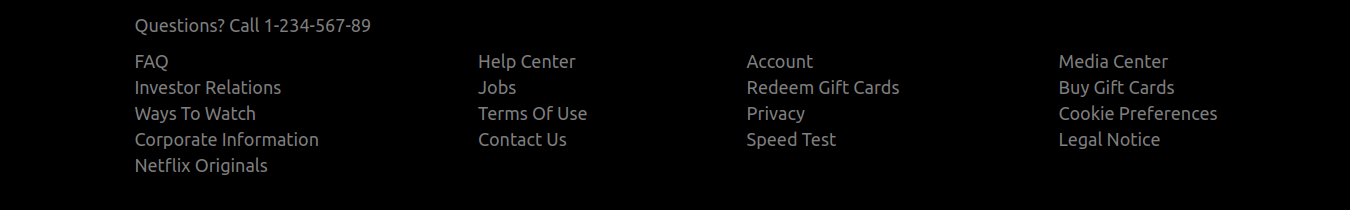
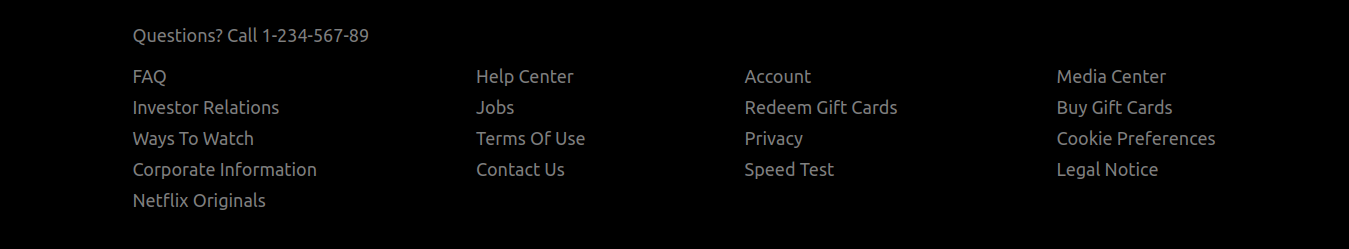
fix details

diff --git a/css/styles.css b/css/styles.css
@@ -2,6 +2,7 @@
   --bg-main: #000;
   --bg-main-light: #141414;
   --bg-red: #e50914;
+  --bg-white-light: rgba(255,255,255,0.5);
   --ff-main: -apple-system, BlinkMacSystemFont, 'Segoe UI', Roboto, Oxygen, Ubuntu, Cantarell, 'Open Sans', 'Helvetica Neue', sans-serif;
 }
 
@@ -25,7 +26,7 @@ a {
 }
 
 .active {
-  border-bottom: 2px solid var(--bg-red);
+  border-bottom: 4px solid var(--bg-red);
 }
 
 .btn {
@@ -33,7 +34,6 @@ a {
   cursor: pointer;
   background-color: var(--bg-red);
   color: #fff;
-  font-weight: bold;
   text-transform: uppercase;
 }
 
@@ -65,6 +65,7 @@ a {
   padding: 30px 20px;
   height: 100%;
   box-shadow: 0px 0px 150px 150px rgb(0, 0, 0) inset;
+  background-color: rgba(0,0,0,0.6);
 }
 
 /* head */
@@ -114,14 +115,16 @@ a {
 .header-body h3 {
   text-transform: uppercase;
   font-size: 1.8rem;
+  font-weight: 400;
 }
 
 .btn-trial {
-  font-size: 1.5rem;
-  padding: 20px;
+  font-size: 2rem;
+  padding: 30px;
+  font-weight: 400;
 }
 
-i.fas {
+.btn-trial i.fas {
   margin: 0 10px;
 }
 
@@ -129,17 +132,19 @@ i.fas {
 /* plans */
 .plans {
   display: flex;
-  justify-content: center;
+  justify-content: space-around;
   color: #fff;
   width: 100%;
   background-color: var(--bg-main-light);
+  border-bottom: 1px solid #999;
 }
 
 .plan {
   width: 200px;
-  padding: 10px;
-  margin: 10px auto;
+  padding: 20px;
+  /*margin: 10px auto;*/
   text-align: center;
+  color: var(--bg-white-light);
 }
 
 .plan i.fas {
@@ -155,6 +160,7 @@ i.fas {
   color: #fff;
   margin: 20px auto;
   width: 80%;
+  font-weight: 400;
 }
 
 .btn-free-trial {
@@ -171,7 +177,7 @@ i.fas {
 }
 
 .footer p {
-  color: rgba(255,255,255,0.5);
+  color: var(--bg-white-light);
   margin: 10px auto;
 }
 
@@ -182,7 +188,7 @@ i.fas {
 
 .item-info > a {
   display: block;
-  margin: 5px auto;
-  color: rgba(255,255,255, 0.5);
+  margin: 10px auto;
+  color: var(--bg-white-light);
   text-transform: capitalize;
 }

diff --git a/index.html b/index.html
@@ -24,7 +24,7 @@
         </div>
         <div class="header-body">
           <h2>See what's next</h2>
-          <h3>watch anywhere, cancel anytime</h3>
+          <h3>watch anywhere. cancel anytime</h3>
           <button type="button" class="btn btn-trial">
             watch free for 30 days
             <i class="fas fa-chevron-right"></i>
@@ -36,15 +36,15 @@
       <div class="plans">
         <div class="plan active">
           <i class="fas fa-door-open"></i>
-          <p>cancel at any time</p>
+          <p>Cancel at any time</p>
         </div>
         <div class="plan">
           <i class="fas fa-tablet-alt"></i>
-          <p>watch anywhere</p>
+          <p>Watch anywhere</p>
         </div>
         <div class="plan">
           <i class="fas fa-tags"></i>
-          <p>pick your price</p>
+          <p>Pick your price</p>
         </div>
       </div>
       <div class="free-trial">
